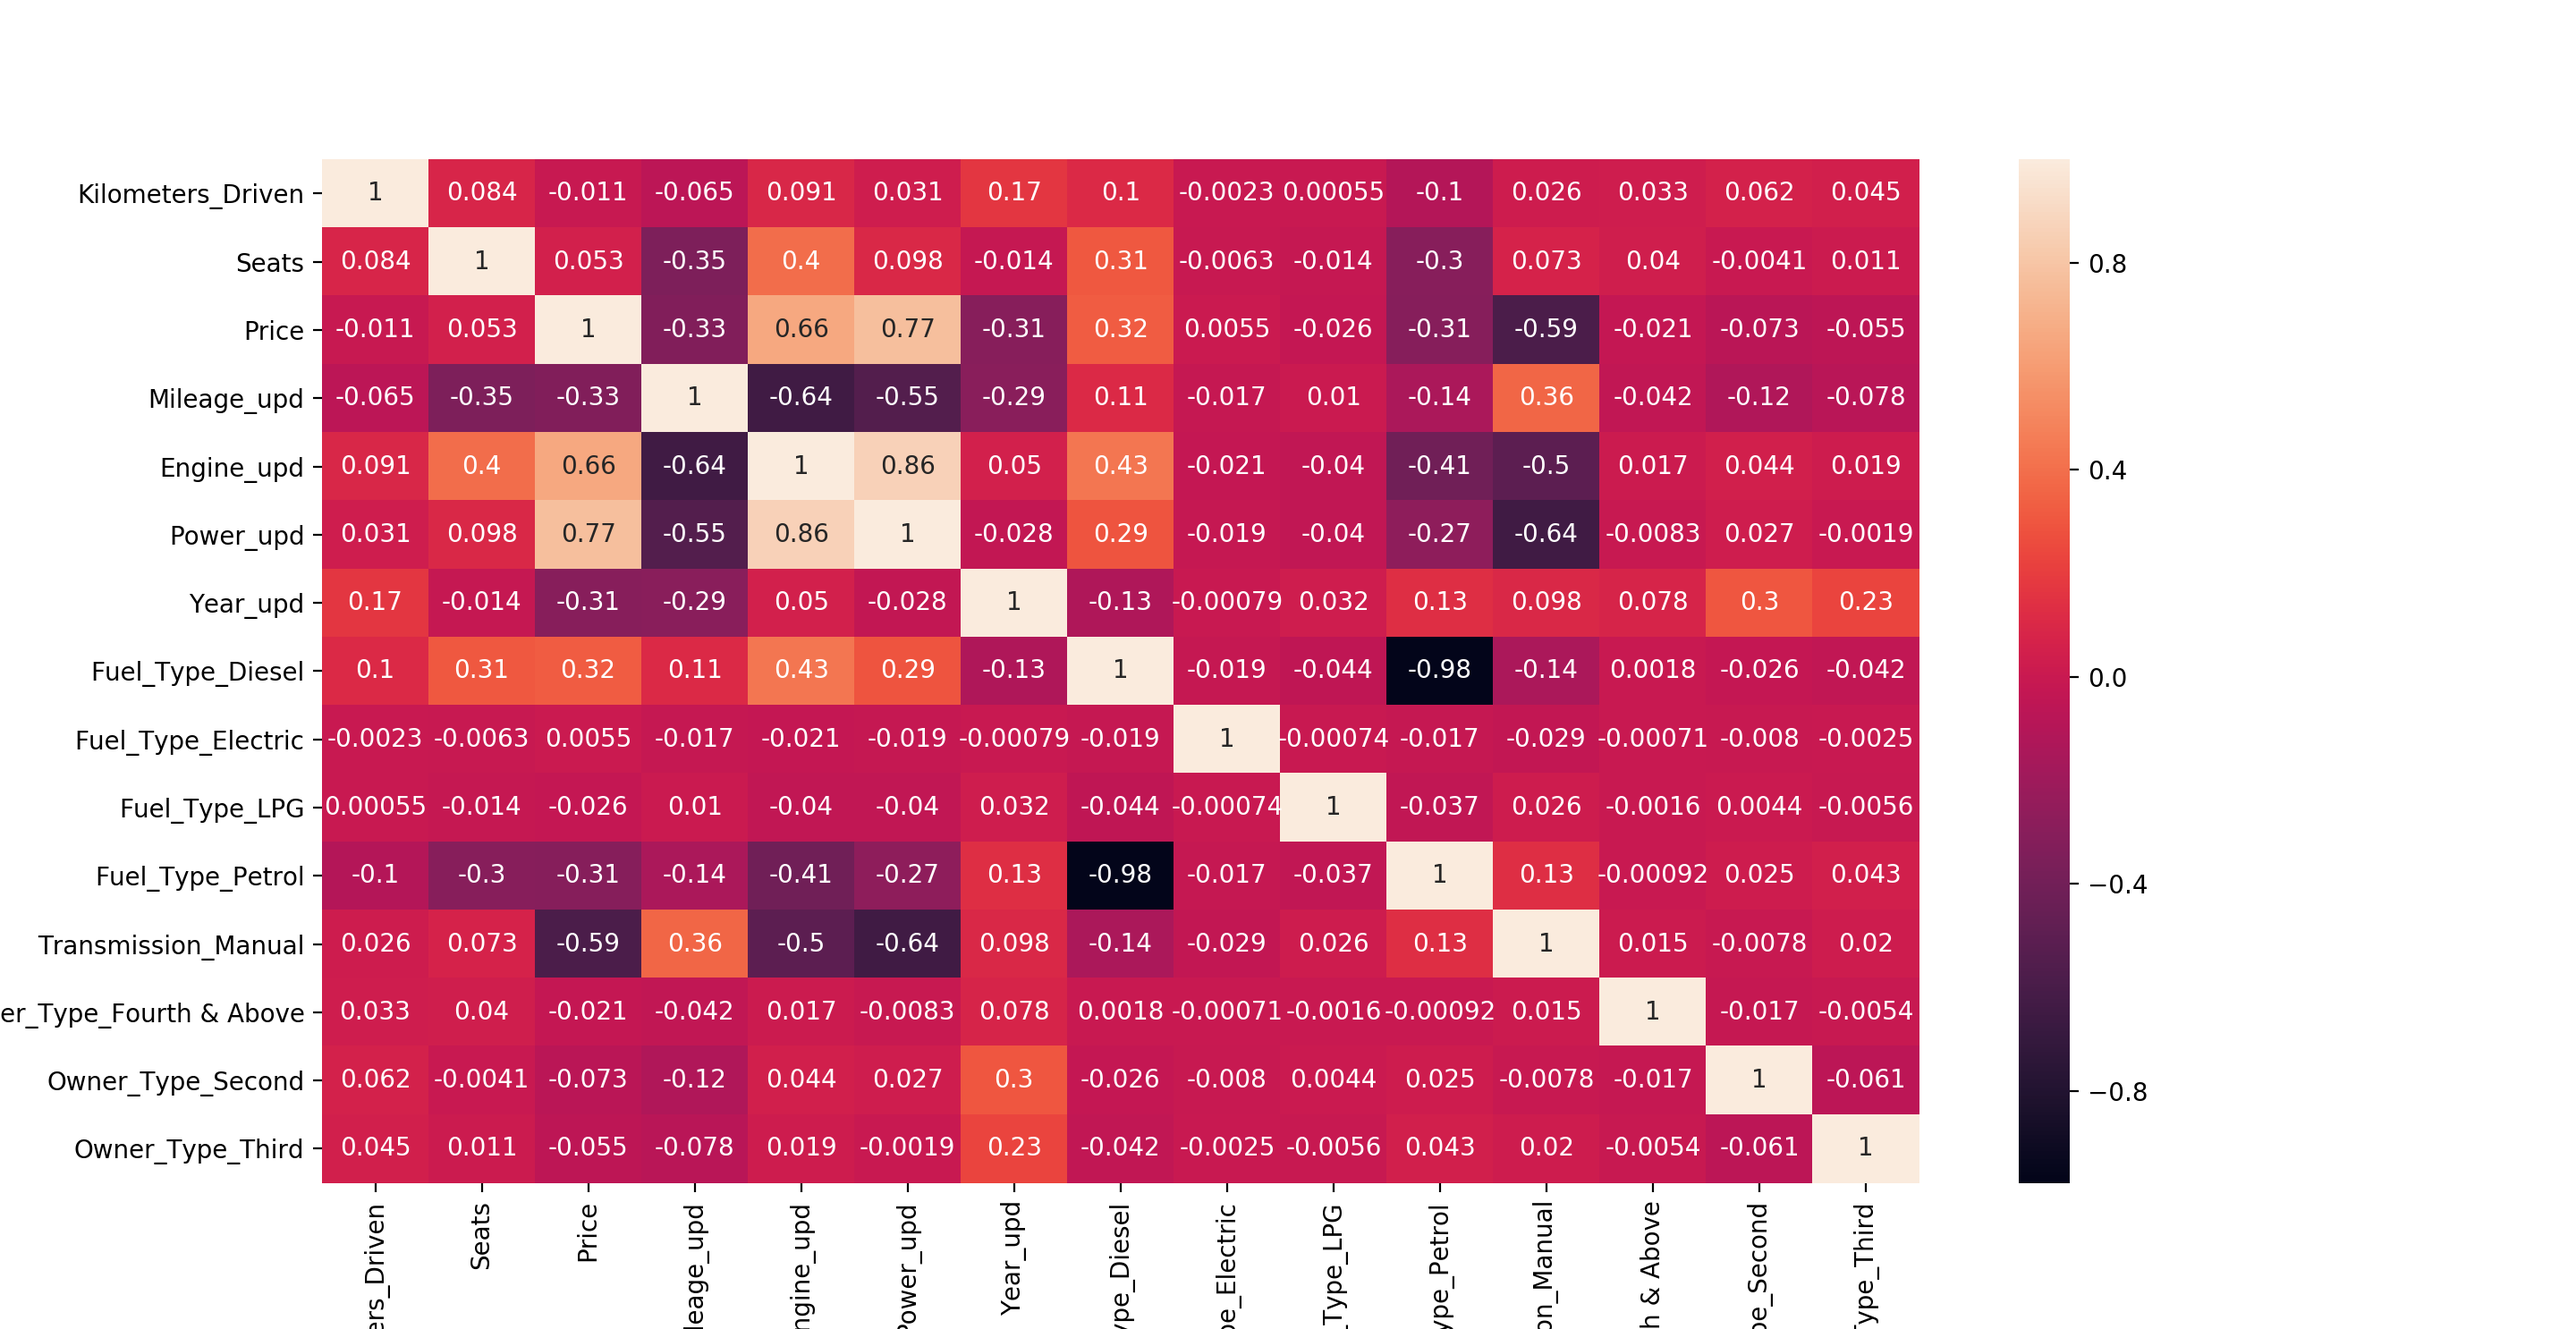
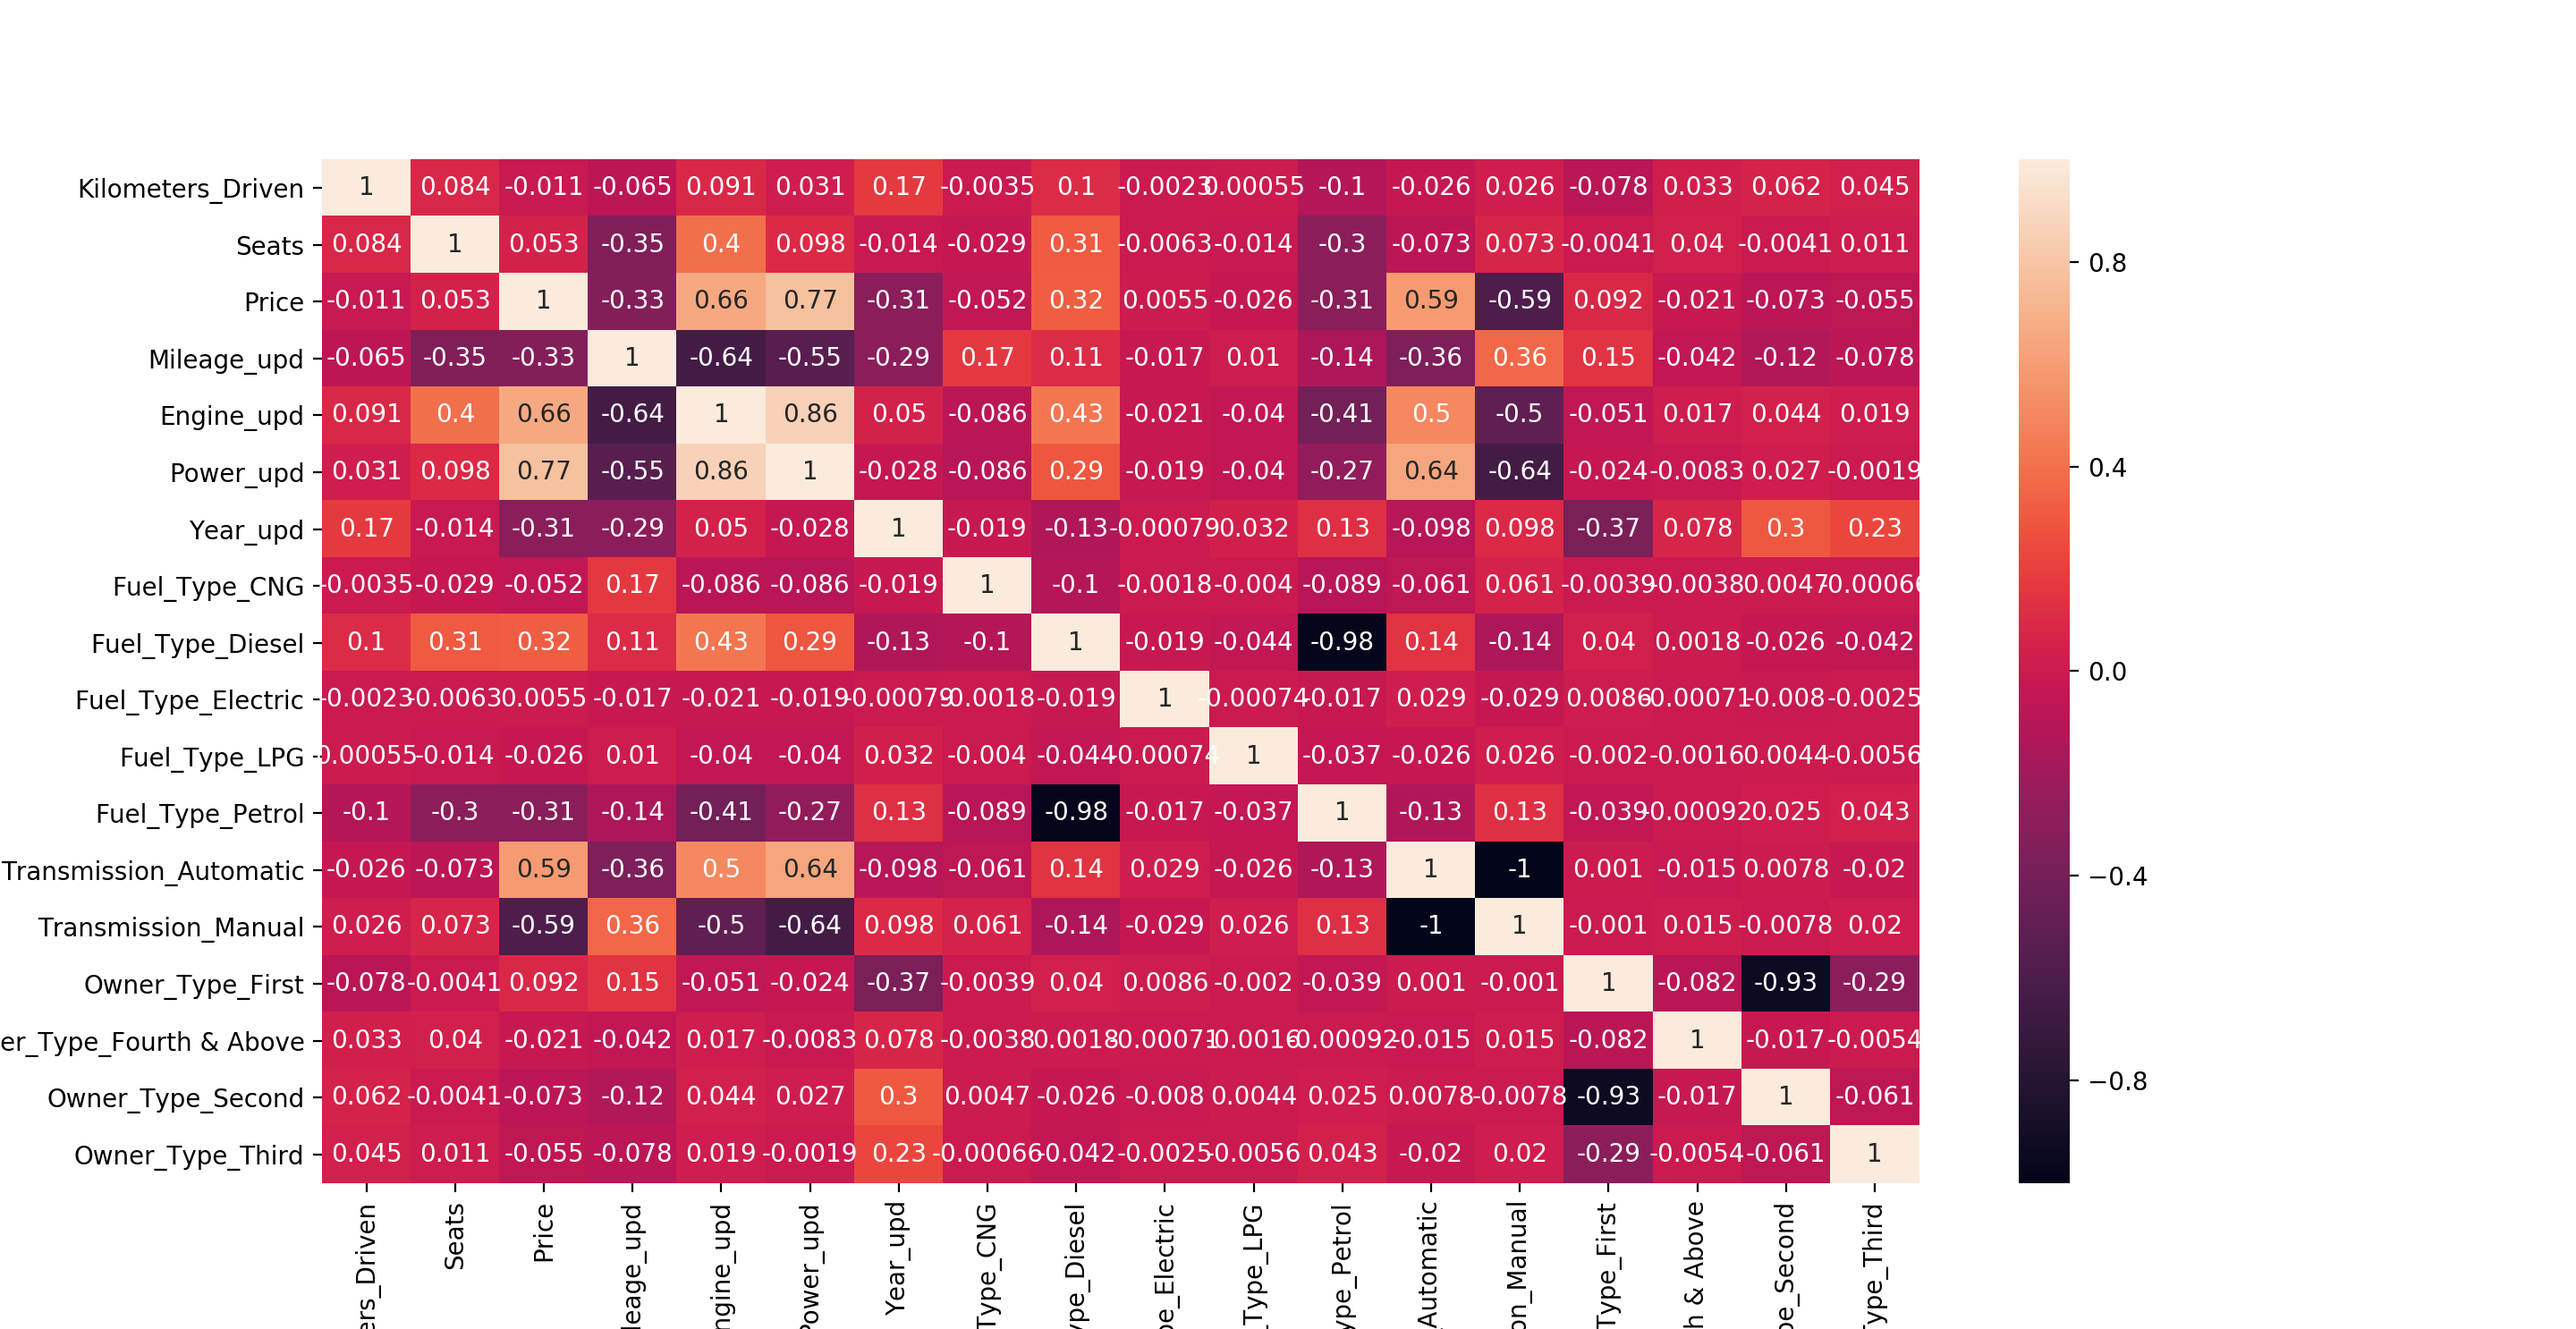
readme add

diff --git a/Prediction.py b/Prediction.py
@@ -3,14 +3,18 @@ import pandas as pd
 
 util = PredictionUtil()
 util.read('dataset.csv')
+print(util.df.columns)
 util.drop(['Unnamed: 0', 'brand_name', 'Location', 'New_Price'])
+util.boxplot('Owner_Type', 'Price')
+util.lmplot('Power_upd', 'Price', 'Owner_Type')
+util.df = pd.get_dummies(util.df)
+print(util.df.columns)
+util.heatmap(['Kilometers_Driven', 'Seats', 'Price', 'Mileage_upd', 'Engine_upd',
+               'Power_upd', 'Year_upd', 'Fuel_Type_CNG', 'Fuel_Type_Diesel',
+               'Fuel_Type_Electric', 'Fuel_Type_LPG', 'Fuel_Type_Petrol',
+               'Transmission_Automatic', 'Transmission_Manual', 'Owner_Type_First',
+               'Owner_Type_Fourth & Above', 'Owner_Type_Second', 'Owner_Type_Third'])
 
-util.df = pd.get_dummies(util.df, drop_first=True)
-# util.boxplot('Owner_Type', 'Price')
-# util.heatmap(['Kilometers_Driven', 'Seats', 'Price', 'Mileage_upd', 'Engine_upd',
-#                'Power_upd', 'Year_upd', 'Fuel_Type_Diesel', 'Fuel_Type_Electric',
-#                'Fuel_Type_LPG', 'Fuel_Type_Petrol', 'Transmission_Manual',
-#                'Owner_Type_Fourth & Above', 'Owner_Type_Second', 'Owner_Type_Third'])
 util.run_all(['Power_upd', 'Engine_upd', 'Transmission_Manual'], 'Price')
 print('\n# add Year')
 util.run_all(['Power_upd', 'Engine_upd', 'Transmission_Manual', 'Year_upd'], 'Price')

diff --git a/README.md b/README.md
@@ -1,5 +1,159 @@
 ## 제주대학교 인공지능 기말 프로젝트
 
 - 주제 : 중고차 시세 예측
+
 - 데이터셋 출처 및 참고 사이트 : https://www.kaggle.com/avikasliwal/used-cars-price-prediction
-- 
+
+  --------
+
+  ### mllib - prediction_util
+
+  https://github.com/yungbyun/mllib 의 prediction_util을 이용하여 중고차의 시세를 예측하였습니다.
+
+  --------
+
+  ### 데이터 셋
+
+  해당 캐글에 존재하는 데이터셋을 전처리 하여 이용하였습니다.
+
+  전처리는 https://www.kaggle.com/vnesh123/used-car-price-prediction 을 참고하여 진행하였습니다.
+
+  -------
+  
+  1. 모듈 불러오기
+  
+     <pre>from mllib.prediction_util import PredictUtil
+     import pandas as pd
+     </pre>
+  
+     예측 모델 객체를 생성하기 위해 mllib 의 PredictUtil 을 prediction_util 에서 import 합니다.
+  
+     차후 get_dummies 함수를 사용하기 위해 pandas를 import 합니다.
+  
+  2. 객체 생성
+  
+     <pre>util = PredictionUtil()
+     </pre>
+  
+     데이터 셋을 불러오고 예측 알고리즘을 실행하기 위해 객체를 생성합니다.
+  
+  3. 데이터 셋 전처리
+  
+     <pre>util.read('dataset.csv')
+     </pre>
+  
+     ![read](https://github.com/kohyerim/ai-project/read.png)
+  
+     데이터 셋을 read 해오면 다음과 같이 출력됩니다.
+     이 때, 필요하지 않은 칼럼들이 보이는데 이를 확인하기 위해 데이터셋 파일을 열어보면 아래와 같은 칼럼들을 확인할 수 있습니다.
+  
+     ![dataset](https://github.com/kohyerim/ai-project/dataset_pic.png)
+  
+     - Unnamed: 0 - 단순한 인덱스 칼럼
+     - Location : 중고차가 등록된 주소
+     - Kilometers_Driven : 자동차 주행거리
+     - Transmission : 변속기 종류
+     - Owner_Type : 자동차의 주인이 몇 번째 주인이었는지
+     - Seats : 좌석 개수
+     - New_Price : 해당 모델의 신차 가격
+     - Price : 해당 중고차의 가격
+     - Brand_name : 자동차의 제조사 명
+     - Mileage_upd : 자동차 회사에서 제공하는 표준 주행 거리
+     - Engine_upd : 엔진의 용량 (CC)
+     - Power_upd : 엔진의 최대출력 (bhp)
+     - Year_upd : 자동차의 제조연도
+  
+     위의 칼럼들 중 중고차의 시세와 관계가 없다고 생각되는 칼럼들을 drop한다.
+  
+     <pre>util.drop(['Unnamed: 0', 'brand_name', 'Location', 'New_Price'])
+     </pre>
+  
+  4. 가격과 그 외의 요소들 간의 상관관계 확인
+  
+     - Owner_Type과 가격의 관계 (boxplot)
+  
+       <pre>util.boxplot('Owner_Type', 'Price')
+  
+       ![boxplot](https://github.com/kohyerim/ai-project/boxplot.png)
+  
+       outlier의 값이 많아 가격과의 관계가 크다고 생각되지 않습니다.
+  
+     - Power_upd와 가격의 관계 (lmplot)
+  
+       <pre>util.lmplot('Power_upd', 'Price', 'Owner_Type')
+  
+       ![lmplot](https://github.com/kohyerim/ai-project/lmplot.png)
+  
+       완벽한 일차함수의 그래프 모양은 아니지만, 꽤 상관관계가 있어 보입니다.
+  
+     - 히트맵 그리기
+  
+       - One-Hot-Encoding
+         히트맵을 그리기 전에, 숫자가 아닌 칼럼들을 수치화 해주어야 한다. 이 때 1, 2, 3 과 같은 대소관계가 있는 수치를 사용하면 안되고 0과 1로 이루어진 새로운 칼럼을 만들어서 수치화 해야 합니다. 이렇게 수치화 하는 것을 원 핫 인코딩 이라고 합니다.
+  
+         <pre>util.df = pd.get_dummies(util.df)
+  
+         Pandas 모듈에서 원 핫 인코딩을 지원하고 있어 객체의 멤버변수인 df에 접근하여 원 핫 인코딩을 해주는 get_dummies 함수를 실행합니다.
+  
+         원 핫 인코딩 후의 칼럼은 다음과 같습니다.
+  
+         ![get_dummies](https://github.com/kohyerim/ai-project/get_dummies.png)
+  
+         숫자형이 아닌 칼럼이었던 Fuel_Type, Transmission, Owner_Type 칼럼이 숫자화 된 칼럼으로 변경된 것을 확인할 수 있습니다.
+  
+       - 히트맵 출력
+  
+         원 핫 인코딩 후, 칼럼들을 모두 이용해 히트맵을 그려보면 다음과 같다.
+  
+         <pre>util.heatmap(['Kilometers_Driven', 'Seats', 'Price', 		'Mileage_upd','Engine_upd','Power_upd', 'Year_upd', 'Fuel_Type_CNG', 'Fuel_Type_Diesel','Fuel_Type_Electric', 'Fuel_Type_LPG', 'Fuel_Type_Petrol','Transmission_Automatic', 'Transmission_Manual', 'Owner_Type_First','Owner_Type_Fourth & Above', 'Owner_Type_Second', 'Owner_Type_Third'])</pre>
+  
+         ![heatmap](https://github.com/kohyerim/ai-project/Heatmap.png)
+  
+         가격(Price)칼럼과 연관성이 높은 칼럼은 'Power_upd', 'Engine_upd', 'Transmission' 정도로 생각이 되며, 그 외에 'Year_upd', 'Mileage_upd'를 더 이용해 보겠습니다.
+  
+  5. 상관관계를 이용하여 중고차 시세 예측하기 - run_all()
+  
+     PredictionUtil의 run_all 함수를 호출하면 선형회귀, K-Neighbor, 결정트리, 랜덤포레스트 예측 모델을 실행하여 원하는 값을 예측해 볼 수 있습니다.
+  
+     - 'Power_upd', 'Engine_upd', 'Transmission' 칼럼을 이용한 예측
+  
+       <pre>util.run_all(['Power_upd', 'Engine_upd', 'Transmission_Manual'], 'Price')
+  
+       'Power_upd', 'Engine_upd', 'Transmission' 칼럼을 이용해 가격을 예측하고, 그 정확도를 확인하면 다음과 같습니다.
+  
+       ![run_all](https://github.com/kohyerim/ai-project/run_all.png)
+  
+       - Linear Regression : 58%
+       - K-Neighbor Regression : 74%
+       - Decision Tree : 76%
+       - Random Forest : 79.9%
+  
+     - 'Power_upd', 'Engine_upd', 'Transmission', 'Year_upd' 칼럼을 이용한 예측
+  
+       <pre>util.run_all(['Power_upd', 'Engine_upd', 'Transmission_Manual', 'Year_upd'], 'Price')
+  
+       'Power_upd', 'Engine_upd', 'Transmission', 'Year_upd' 칼럼을 이용해 가격을 예측하고, 그 정확도를 확인하면 다음과 같습니다.
+  
+       ![addYear](https://github.com/kohyerim/ai-project/addYear.png)
+  
+       - Linear Regression : 67%
+       - K-Neighbor Regression : 82%
+       - Decision Tree : 87%
+       - Random Forest : 89%
+  
+       3개의 칼럼만 이용했을 때 보다 정확도가 더 좋아졌습니다.
+  
+     - 'Power_upd', 'Engine_upd', 'Transmission', 'Year_upd', 'Mileage_upd' 칼럼을 이용한 예측
+  
+       <pre>util.run_all(['Power_upd', 'Engine_upd', 'Transmission_Manual', 'Year_upd', 'Mileage_upd'], 'Price')
+  
+       'Power_upd', 'Engine_upd', 'Transmission', 'Year_upd', 'Mileage_upd' 칼럼을 이용해 가격을 예측하고, 그 정확도를 확인하면 다음과 같습니다.
+  
+       ![addMileage](https://github.com/kohyerim/ai-project/addMileage.png)
+  
+       - Linear Regression : 67%
+       - K-Neighbor Regression : 82%
+       - Decision Tree : 88%
+       - Random Forest : 89%
+  
+       4개의 칼럼을 이용했을 때와 비교해서 정확도가 비슷합니다.
